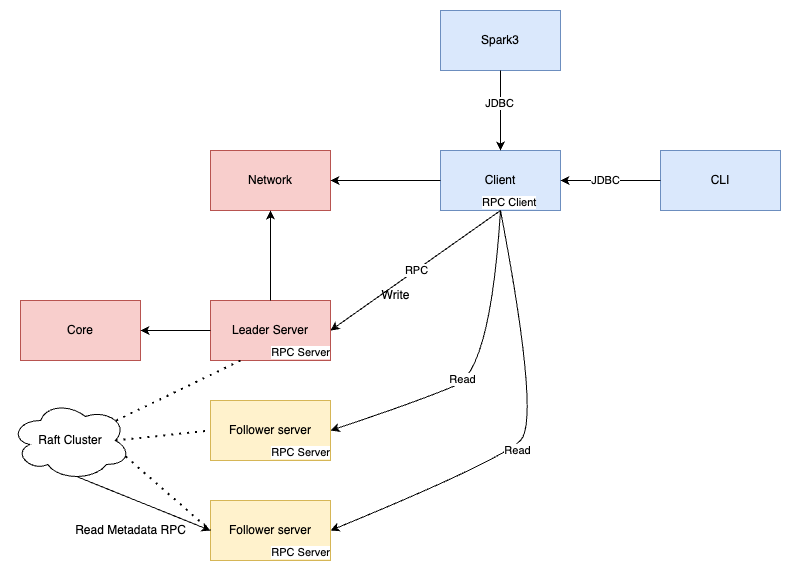
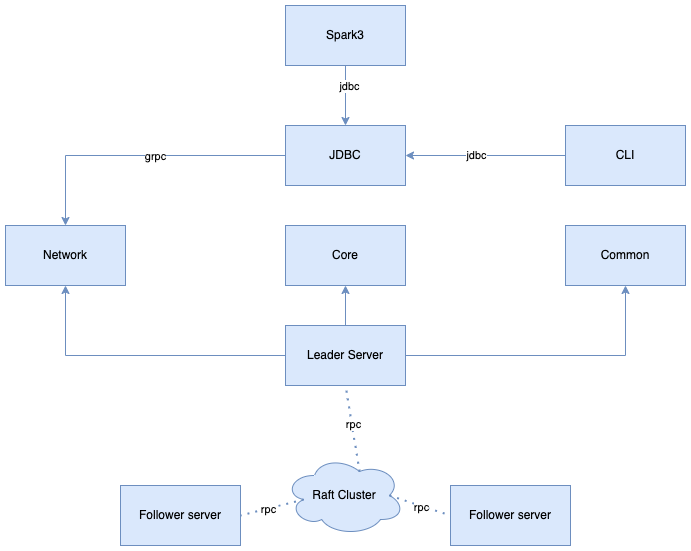
Fix doc

diff --git a/docs/CONTRIBUTING.md b/docs/CONTRIBUTING.md
@@ -14,8 +14,6 @@
 
 ## 模块概述
 
-***核心模块依赖关系***
-
 ![](bitlap_structure.png)
 
 | 模块               | 技术栈                                     | 说明                                         |
@@ -29,7 +27,7 @@
 | bitlap-spark3    | scala 2.13.x、spark 3.x                  | Spark3 集成                                  |
 | bitlap-common    | scala 3.x、 RoaringBitmapX               | 工具、 配置、异常、基础模型                             |
 | bitlap-testkit   | scala 3.x、javafaker、rolls、scalatest     | 测试工具、集成测试                                  |
-| bitlap-server-ui | umi                                     | 可视化 SQL 页面 UI                              |
+| bitlap-server-ui | umi                                     | 可视化页面                                      |
 
 ## 运行
 
@@ -44,4 +42,17 @@ docker run --name bitlap-$tag -dit -p 24333:24333 -p 23333:23333 -p 22333:22333 
 
 也可以使用打包好的 [镜像](https://hub.docker.com/r/liguobin/bitlap/tags)
 
-> 暂不建议本地直接启动`main`方法运行
+> 暂不建议在本地直接启动，尤其是在Windows上。非要运行，请使用`bitlap-testkit`中的这个入口：
+```scala
+package org.bitlap.testkit
+
+import org.bitlap.server.BitlapServer
+
+/** This entry can read the default test configuration
+ */
+@main def runForExampleAndDebug() = {
+  BitlapServer.main(Array.empty)
+}
+```
+
+这个`main`方法将读取测试的配置来启动服务
